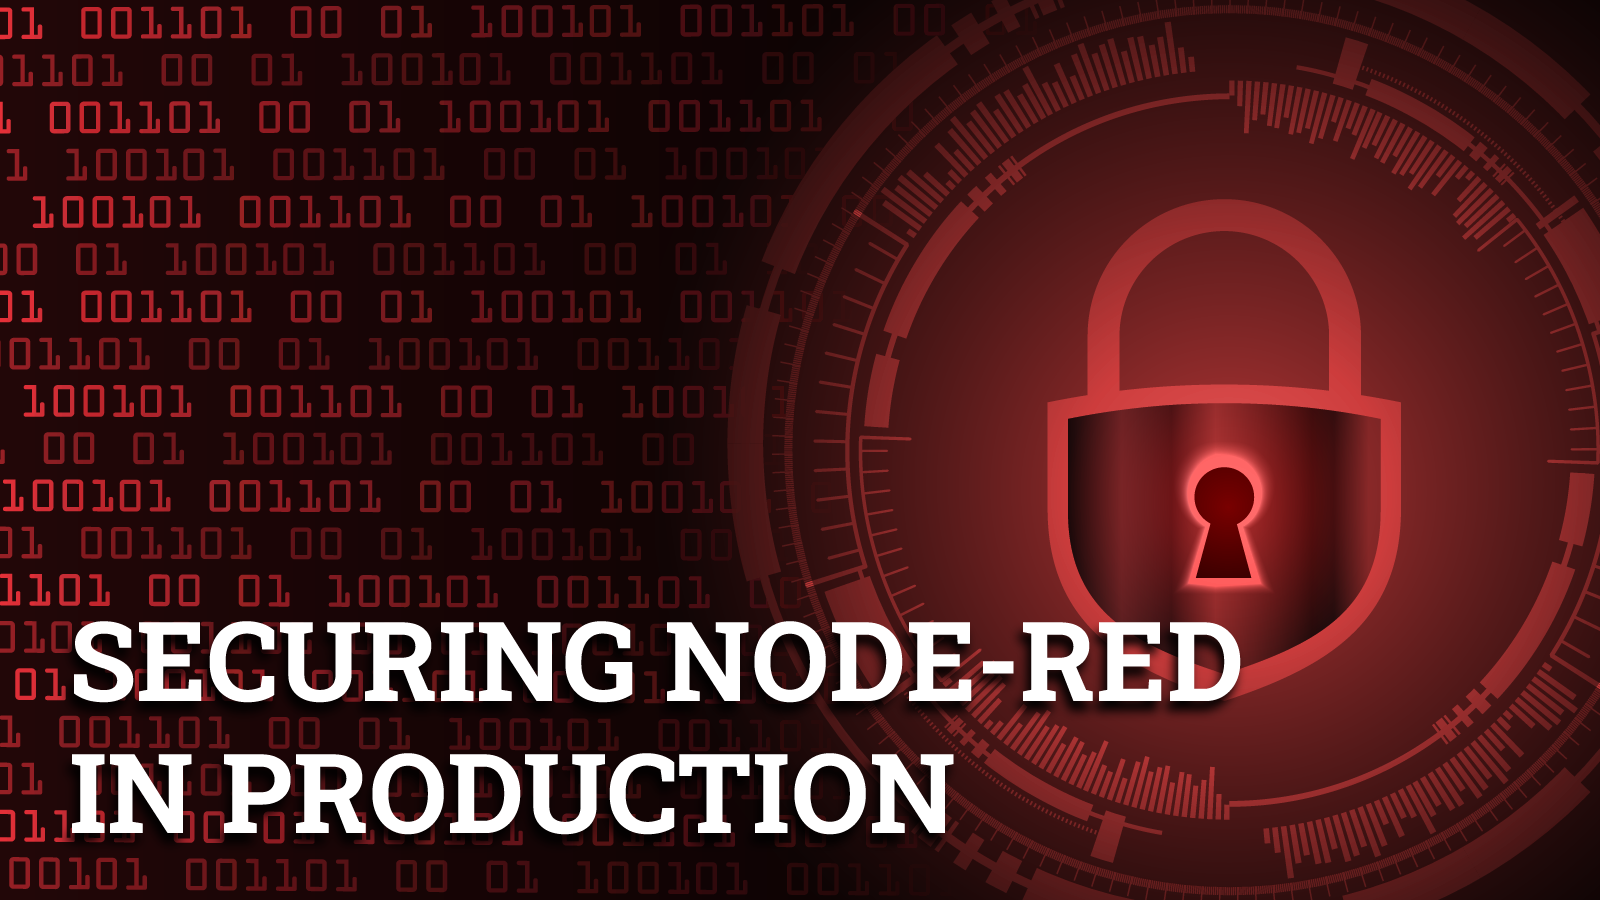
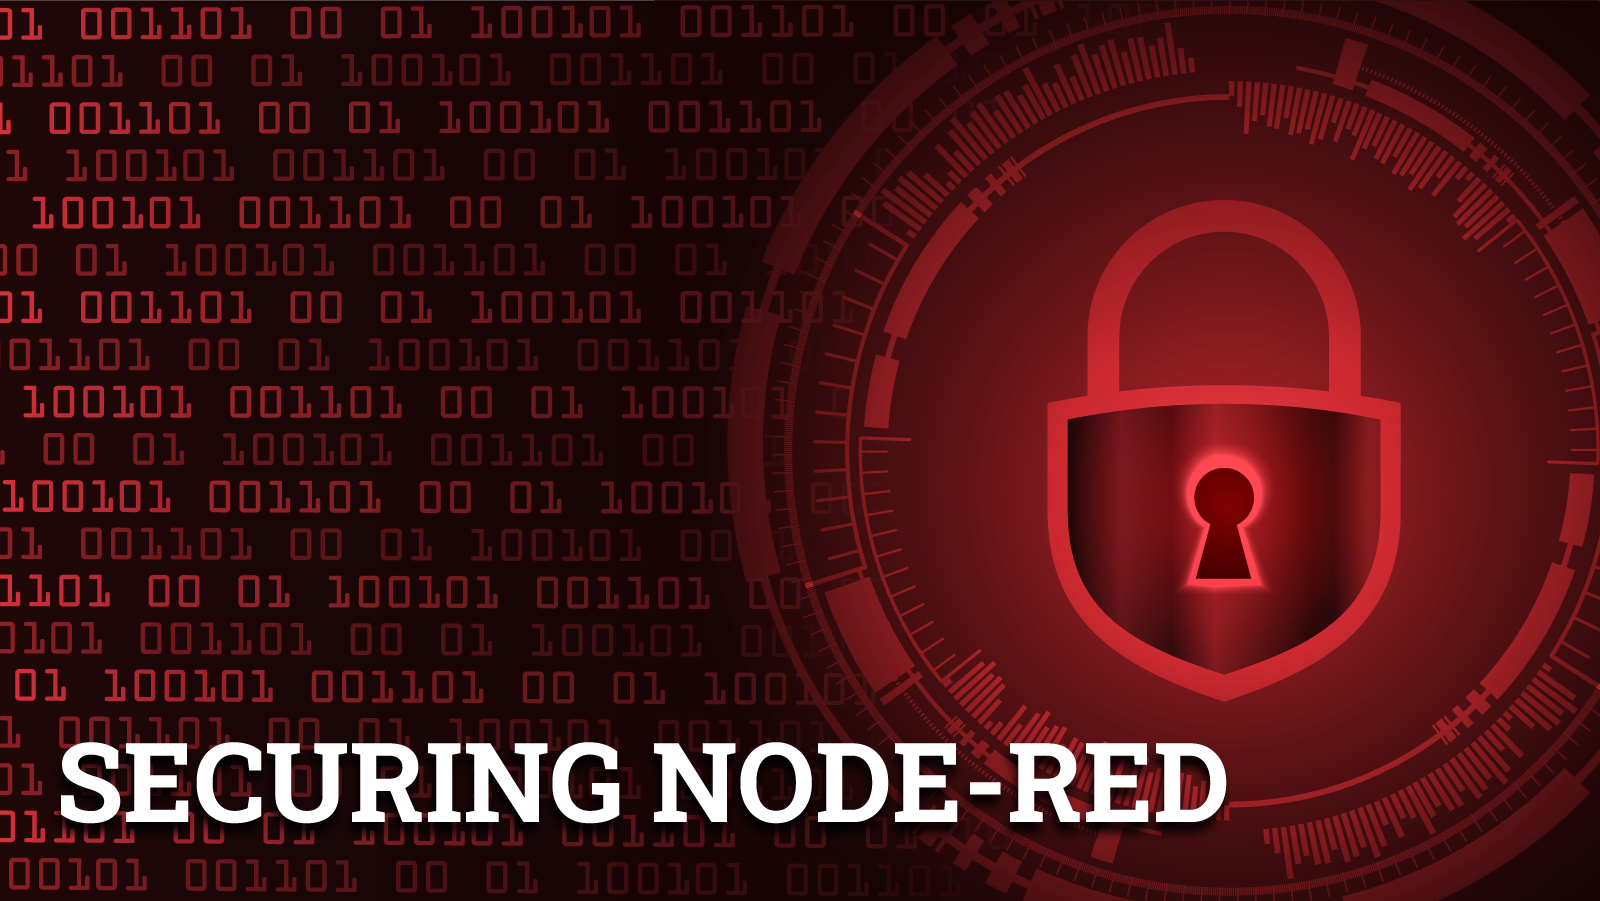
securing node red blog

diff --git a/src/blog/2023/04/securing-node-red-in-production.md b/src/blog/2023/04/securing-node-red-in-production.md
@@ -1,7 +1,7 @@
 ---
-title: Securing Node-RED in production environments
-subtitle: In this blog post, I will cover some of the key steps to securing your Node-RED projects.
-description: In this blog post, I will cover some of the key steps to securing your Node-RED projects.
+title: Securing Node-RED
+subtitle: In this blog post, I will cover some of the key steps to securing Node-RED projects.
+description: In this blog post, I will cover some of the key steps to securing Node-RED projects.
 date: 2023-04-05
 authors: ["rob-marcer"]
 image: /blog/2023/04/images/security-header.png
@@ -9,150 +9,142 @@ tags:
     - posts
 ---
 
-Node-RED is very easy to get up and running. Whether you run it locally, in Docker, on a Raspberry Pi or on a great cloud service such as our own FlowForge Cloud you can have a project up and running in minutes.
+Node-RED is very easy to get up and running. Whether you run it locally, in Docker, on a Raspberry Pi, or on a service such as FlowForge Cloud you can have a project up and running in minutes.
 
 <!--more-->
 
-One thing that can get overlooked is the security of Node-RED. From personal experience, the first few times I installed Node-RED I was more focussed on the possibilities of what I could do with this new tool that I was keeping my flows secure. This becomes an even more important consideration when wanting to use Node-RED in a commercial environment. In this article I’m going to look at some of the security points you should consider when using Node-RED, even if you are using it on your home or lab network. I’ve ordered these in what I consider to be easiest to hardest to put in place so new users should work their way down this list.
+One thing that can get overlooked is the security of Node-RED. From personal experience, the first few times I installed Node-RED I was more focussed on the possibilities of what I could do with this new tool than I was keeping my projects secure. 
 
-## Anyone on your LAN (local area network) can access your Node-RED interface
+In this article I’m going to look at some easy ways to make your Node-RED project more secure, even when first learning about it in a hobby environment.
 
-Once you have an instance of Node-RED running it can usually be accessed by pointing a web browser to the IP address and port of where it’s running.
+## Protecting access from your LAN to Node-RED
+
+Once you have an instance of Node-RED running it can usually be accessed from anywhere on your LAN (local area network) by pointing a web browser to the relevant IP address and port.
 
 ```http://192.168.0.3:1880```
 
-With a URL similar to the one above (depending on your specific network and Node-RED configuration) anyone on your LAN can view but more importantly edit your flows. This can be really useful when you are first learning about Node-RED but it’s always a good idea to get into the habit of locking down access to the editor, even if you trust everyone who can access your LAN.
+With a URL similar to the one above, depending on your specific network and Node-RED configuration, anyone on your LAN can view but more importantly edit your flows. This can be really useful when you are first learning about Node-RED but it’s always a good idea to get into the habit of locking down access to the editor, even if you trust everyone who can access your LAN.
 
 One of the easiest ways to protect your flows is to add a username and password to your Node-RED instance.
 
-The first step is to find your Node-RED settings.js file, it's not always in the same place but on a default Linux installation it can be found in this directory.
+The first step is to find your Node-RED settings.js file. It's not always in the same place but on a default Debian Linux installation it can be found in this directory.
 
 ```cd ~/.node-red```
 
-If you list that directory you should now see something like:
+If you list that directory you should now see something like this:
 
-![Where your settings.js should show](./images/ls.png "Where your settings.js should show")
+![Where your settings file should show](./images/ls.png "Where your settings.js should show")
 
-We now need to edit settings.js, I'm going to use (Nano)[https://www.nano-editor.org/] to do that.
+We now need to edit settings.js, I'm going to use my favourite text editor, [Nano](https://www.nano-editor.org/) to do that.
 
 ```nano settings.js```
 
 We now need to find and edit the following section of the settings file:
 
-```
-    /** To password protect the Node-RED editor and admin API, the following
-     * property can be used. See http://nodered.org/docs/security.html for details.
-     */
-    //adminAuth: {
-    //    type: "credentials",
-    //    users: [{
-    //        username: "admin",
-    //        password: "$2a$08$zZWtXTja0fB1pzD4sHCMyOCMYz2Z6dNbM6tl8sJogENOMcxWV9DN.",
-    //        permissions: "*"
-    //    }]
-    //},
-```
+![The settings file before being edited](./images/without-password.png "The settings file before being edited")
 
-For this example, I'm just going to add a password and uncomment the section, you could also change the username for additional security.
+For this example, I'm going to add a password and uncomment the relevant section of the settings file, you could also change the username for additional security.
 
-To create the password we need to use a command line tool which in included in Node-RED. Open a second terminal then run this command:
+To create the password we'll need to use a command line tool which is included in Node-RED. Open a second terminal then run this command:
 
 ```node-red admin hash-pw```
 
-Put in your new password, I'll use the password flowforge in this example. The tool returns your password in a hashed format.
+Put in your new password, I'll use the password 'flowforge' in this example. The tool returns your password in a hashed format:
 
 ![The Node-RED tool outputs the hashed password](./images/password.png "The Node-RED tool outputs the hashed password")
 
 We can now return to the other terminal window, uncomment the section then paste in the new password, this is how it looks for me:
 
-```
-    /** To password protect the Node-RED editor and admin API, the following
-     * property can be used. See http://nodered.org/docs/security.html for details.
-     */
-    adminAuth: {
-        type: "credentials",
-        users: [{
-            username: "admin",
-            password: "$2b$08$pVd7SPN0Q5jI.VyFiVoZIOg10AWkmbLKFezpBxp.rYnwcN4FLtswe",
-            permissions: "*"
-        }]
-    },
-```
+![The settings file with the relevant section uncommented and the password set](./images/with-password.png "The settings file with the relevant section uncommented and the password set")
 
-You can now save and exit out of your file.
+We can now save and exit out of the settings file.
 
 The last step is to restart Node-RED, I'm using Debian so the command is:
 
 ```node-red-restart```
 
-Now, when you try to access Node-RED you will need to provide a username and password.
+Now, when we try to access Node-RED I will need to provide a username and password.
 
 ![Using the username and password to login to Node-RED](./images/login.gif "Using the username and password to login to Node-RED")
 
-You might also want to consider turning off the editor interface once you are happy with your flows. This can make it a little harder to make changes to your project but it also gives you peace of mind that nobody has accidentally or deliberately edited anything. You can turn off the editor interface as follows:
+You might also want to consider turning off the editor interface once you are happy with your flows. This can make it a little harder to make changes to your project but it also gives you peace of mind that nobody has accidentally or deliberately changed your flows. You can turn off the editor interface as follows.
 
 Edit your settings.js file as explained above, look for the following section:
 
-```
-    /** The following property can be used to disable the editor. The admin API
-     * is not affected by this option. To disable both the editor and the admin
-     * API, use either the httpRoot or httpAdminRoot properties
-     */
-    //disableEditor: false,
-```
+![The setting file before turning off the editor](./images/editor-on.png "The setting file before turning off the editor")
 
 All you need to do is uncomment the bottom line then change the value from false to true, once done it should look something like this:
 
-```
-    /** The following property can be used to disable the editor. The admin API
-     * is not affected by this option. To disable both the editor and the admin
-     * API, use either the httpRoot or httpAdminRoot properties
-     */
-    disableEditor: true,
-```
-Now restart Node-RED as covered above then try accessing your Node-RED instance again, hopefully you will no longer be able to edit or view your flows.
+![The setting file after turning off the editor](./images/editor-off.png "The setting file after turning off the editor")
 
-Using these two features, you now have much better control over who can access your design interface for Node-RED.
+Now restart Node-RED as covered above, then try accessing your Node-RED instance again. You will no longer be able to edit or view your flows.
 
-## All traffic to your Node-RED instance is over HTTP which can be intercepted
+Using these two features, we now have much better control over who can access the design interface for Node-RED.
 
-Hopefully we all know the importance of using HTTPS (usually represented as a padlock in your browser), we check for it when accessing our banking, email etc. Setting up https for your own systems takes a little work but it’s really worth it, especially if you are accessing your Node-RED instances over a LAN with many other users or the internet.
+## Traffic to your Node-RED instance is unencrypted
 
-This guide works on Debian (well actually, Raspbian running on a Pi4), you will probably find this approach might not work if you are working on a different OS or hardware.
+Hopefully, we all know the importance of encrypting your connections between devices to stop people intercepting your traffic. This isn't a huge concern when working on your home LAN but what if you want to access your Node-RED instance from a remote location? 
 
+There are two obvious options, HTTPS, and a VPN (Virtual Private Network).
 
+We could setup your Node-RED traffic to run over HTTPS, this solution ensures that all traffic to and from your Node-RED is encrypted. The downside to this approach is it's quite complex to set up. We will need to have a domain name, open up ports on our LAN's firewall, use a HTTPS certificate provider and then make sure we remember to renew the certificates as needed. It's doable if you are comfortable with those concepts (I covered how to do this as part of my blog [hosting FlowForge on Google Cloud](/blog/2022/12/flowforge-gcp-https-set-up/)) but there is an easier way to get started, using a VPN.
 
-We’ve now secured all traffic between you and your Node-RED project so nobody can intercept it.
+A VPN provides a lot of security advantages depending on which you are using and how it is configured. To secure my traffic I'm going to use a great service call [Tailscale](https://tailscale.com/) which is free for personal projects.
 
-## Updating the Default Credentials
+I'm going to install Tailscale on the Raspberry Pi I'm running Node-RED on as well as any other devices I want to access my project from. Once that's done I can access Node-RED from anywhere with internet access but more importantly the traffic to and from my devices is also encrypted.
 
-When you first install Node-RED, it creates a default user account with the username admin and a blank password. This is obviously not secure and should be changed immediately.
+Before we start, it's important to remember that a VPN is only as secure as the company who runs it. You should always consider if you trust the VPN provider as they could potentially access your devices. I trust Tailscale but please do your own research before using a VPN provider.
 
-To update the default credentials, you can follow these steps:
+The first step we need to take is creating a Tailscale account, [you can sign up for free here](https://login.tailscale.com/start). We next need to add our devices to our VPN using their software, I'm installing Tailscale on my Apple laptop, Google phone as well as the Raspberry Pi I'm running Node-RED on.
 
-1. Open the Node-RED editor in your web browser.
-2. Click on the hamburger menu icon in the top right corner and select "Settings".
-3. Click on the "Admin Auth" tab.
-4. Click on the pencil icon next to the "Users" field to edit the list of users.
-5. Delete the default admin user and add a new user with a strong password.
-6. Click "Done" to save the changes.
+The install process is really easy, even on the Pi running Raspbian the steps you need to take are well explained in the [Tailscale docs](https://tailscale.com/download/linux/debian-bullseye).
 
-Now, when you try to access the Node-RED editor, you will be prompted to enter your new credentials.
+For the Pi, these are the commands we need to run.
 
-## Securing your Dashboards
+1. Add Tailscale to the Apt package manager.
 
-A very common use case for Node-RED is to create a dashboard where users can view graphs and data. It’s important you consider who can access these resources, if you are running Node-RED on a LAN is it OK that anyone else on that network can access your dashboard? If not, let’s look at how to protect them.
+```curl -fsSL https://pkgs.tailscale.com/stable/debian/bullseye.noarmor.gpg | sudo tee /usr/share/keyrings/tailscale-archive-keyring.gpg >/dev/null```
 
-EXPLAIN HOW TO PROTECT DASHBOARDS HERE
+```curl -fsSL https://pkgs.tailscale.com/stable/debian/bullseye.tailscale-keyring.list | sudo tee /etc/apt/sources.list.d/tailscale.list```
 
-You can now run a dashboard with confidence that users will need to provide credentials to view the content.
+```sudo apt-get update```
 
-## Securing your APIs
+2. Install Tailscale
 
-In a similar vein to dashboards, you should consider how you can protect APIs you create. 
+```sudo apt-get install tailscale```
 
-EXPLAIN HOW TO PROTECT APIs
+3. Start Tailscale and connect your device
+
+```sudo tailscale up```
+
+After running the last command, we need to follow the on screen prompts to link our devices to your VPN.
+
+One last thing which you might want to consider doing, every few months you will need to reconnect your devices to your VPN, if you are only going to be accessing your Node-RED device over the VPN you should consider [disabling your Tailscale key expiry](https://tailscale.com/kb/1028/key-expiry/).
+
+OK, now we've got our devices all connected you should see something like this in the Tailscale dashboard.
+
+![Tailscale dashboard showing my three devices](./images/tailscale.png "Tailscale dashboard showing my three devices")
+
+I can now access Node-RED on my Pi from my laptop and phone by pointing a browser to the correct IP address (as shown in the image above) with the port for Node-RED:
+
+```http://100.71.28.60:1880```
+
+I’ve now secured all traffic between my devices and Node-RED project, I can access Node-RED from anywhere on the internet.
+
+![Accessing Node-RED via the VPN](./images/nr-via-vpn.png "Accessing Node-RED via the VPN")
+
+If you follow these steps you should be on the right path to running a more secure Node-RED instance. There is a lot more you can do and I recommend you read the [relevant docs on the Node-RED](https://nodered.org/docs/user-guide/runtime/securing-node-red) website to gain some more ideas.
+
+## What about hosting Node-RED on a cloud solution such as FlowForge?
+
+In this article, I've focussed on hosting Node-RED on a Pi on your own LAN but if you use FlowForge Cloud to host Node-RED the solutions discussed above are either ready out of the box or are not needed.
+
+By default, the editor for Node-RED is protected using your FlowForge user credentials. You can also use SSO to further protect your user accounts and give access to Node-RED to your team members.
+
+All traffic to FlowForge and your Node-RED instances is protected by HTTPS. FlowForge has set up the domain name and manages the certificates so you can spend time on your flows rather than configuring security.
+
+FlowForge has a [free trial](https://app.flowforge.com/account/create) if you'd like to see how we've made secure hosting of Node-RED easy.
 
 ## Conclusion
 
-If you follow these steps you should be on the right path to running a more secure Node-RED instance. There is a lot more you can do and I recommend you read the article on the Node-RED website to gain some more ideas https://nodered.org/docs/user-guide/runtime/securing-node-red
+However you host Node-RED, it's a great idea to get into good security practices as early as possible. I hope some of the tips above help you get started down the path to creating more secure Node-RED projects.
